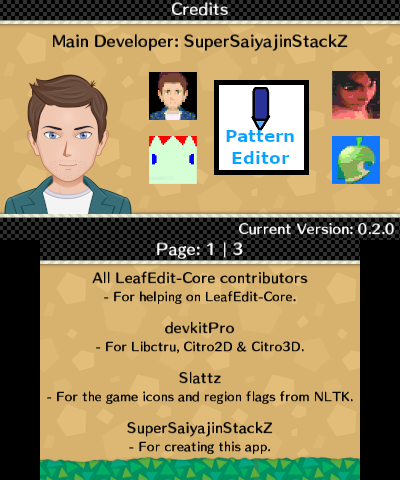
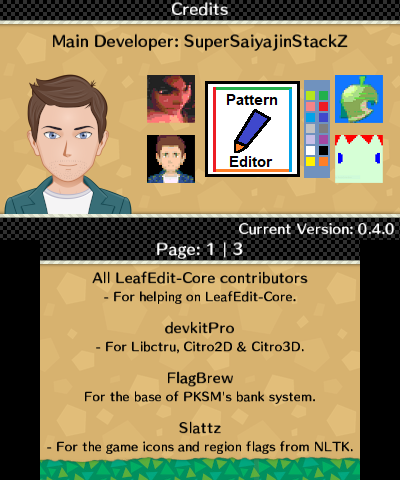
Update LPE page.

diff --git a/pages/projects/leafedit-pattern-editor.md b/pages/projects/leafedit-pattern-editor.md
@@ -10,7 +10,7 @@ permalink: /projects/leafedit-pattern-editor
 
 This is LeafEdit's Pattern Editor as a separate app as well!
 
-### NOTE: This is not a save editor, for a save editor, please use [LeafEdit](https://github.com/Universal-Team/LeafEdit) instead.
+### NOTE: This tool can _only_ edit and store pattern. For a more featured Save Editor please use [LeafEdit](https://github.com/Universal-Team/LeafEdit) instead.
 
 
 ## Current Features
@@ -43,6 +43,15 @@ This is LeafEdit's Pattern Editor as a separate app as well!
 
 - Export Pattern Informations. // For the defaults.
 
+- Edit Pattern from AC:WW, AC:NL, AC:WA & AC:HHD's savefile directly.
+
+- A Storage System for your favorite AC:WW, AC:NL, AC:WA & AC:HHD's Pattern.
+
+- A Storage Menu for changing, resizing, creating, saving and managing the storage.
+
+- Music Playback support. (It supports .WAV and it MUST be MONO and smaller than 13 MB and it must be called `Music.wav` and inside `sdmc:/3ds/LeafEdit/Pattern-Editor/`).
+
+
 ## Planned | TODOs
 - 16-bit BMP images to Pattern conversion.
 
@@ -66,6 +75,12 @@ This is LeafEdit's Pattern Editor as a separate app as well!
 
 ### Selections
 ![](/assets/images/lpe/gameSelect.png) ![](/assets/images/lpe/regionSelect.png) ![](/assets/images/lpe/langSelect.png)
+
+### ShareOverlay
+![](assets/images/lpe/screenshots/shareOvl.png)
+
+### Storage
+![](assets/images/lpe/storageMenu.png) ![](assets/images/lpe/storageMain.png) ![](assets/images/lpe/storageInfo.png)
 
 
 ## Compilation:
@@ -102,8 +117,10 @@ You can get LeafEdit Pattern Editor from [here](https://github.com/SuperSaiyajin
 
 - [LeafEdit-Core-Contributors](https://github.com/Universal-Team/LeafEdit): For helping on LeafEdit-Core.
 
+- [PKSM](https://github.com/FlagBrew/PKSM): For the base of the storage / Bank system, which i used, but now reworked for the Pattern system.
+
 - [Slattz](https://github.com/Slattz): For the region flags & game icons from [NLTK](https://github.com/Slattz/NLTK).
 
-- [Universal-Team](https://github.com/Universal-Team): For [LeafEdit's](https://github.com/Universal-Team/LeafEdit) pattern core and [Universal-Core](https://github.com/Universal-Team/Universal-Core).
+- [Universal-Team](https://github.com/Universal-Team): For [LeafEdit's](https://github.com/Universal-Team/LeafEdit) core and [Universal-Core](https://github.com/Universal-Team/Universal-Core).
 
 - [TotallyNotGuy](https://github.com/TotallyNotGuy): For the amazing Graphics from LeafEdit.
